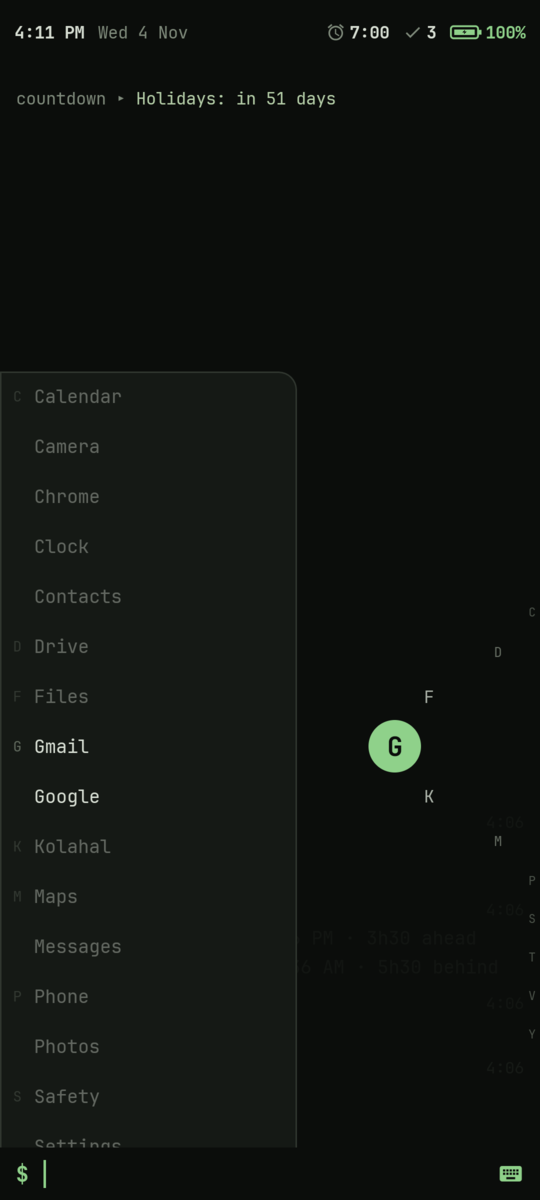
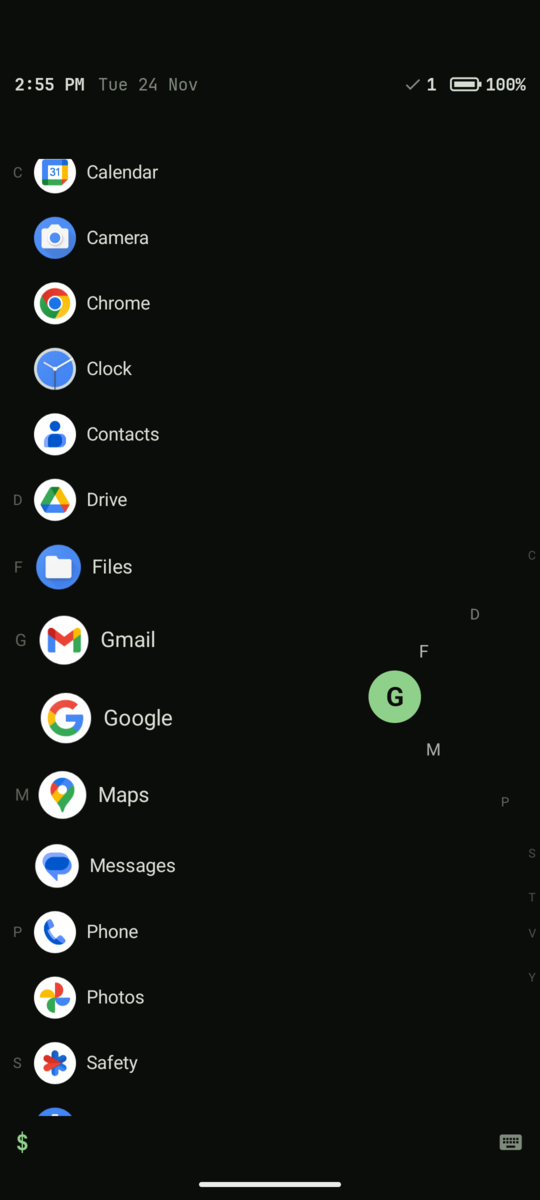
Guide: the app selector as it is today
The three pictures were from the time the list was a panel over a dimmed home. They are retaken with today's build: the list takes the log's place, and the header and the prompt stay. Basics, Parts of the app and the settings reference say what the code does: the log fades out, nothing dims, the rows at the thumb are magnified, and the edge shows letters unless they are turned off. The marks on the Parts page's pictures are placed again.

selector.handle's description says that the handle shows only while the letters along the edge are off.

diff --git a/app/src/main/java/com/mtwabpin/kolahal/data/Keys.kt b/app/src/main/java/com/mtwabpin/kolahal/data/Keys.kt
@@ -359,7 +359,7 @@ object Keys {
     val SELECTOR_HANDLE = ConfigKey.Bool(
         "selector.handle",
         true,
-        "Show the slim A–Z handle on the edge.\nOff hides it, and the selector keeps working"
+        "Show the slim A–Z handle on the edge.\nIt shows only while the letters along the edge are off.\nOff hides it, and the selector keeps working"
     )
     val SELECTOR_LETTERS = ConfigKey.Bool(
         "selector.letters",

diff --git a/site/src/content/docs/reference/config.md b/site/src/content/docs/reference/config.md
@@ -156,14 +156,14 @@ three settings of the log differ here:
 | `suggestions.auto` | bool | `on` | show suggestions only while you type (keyboard open or text in the prompt) |
 | `suggestions.style` | choice: `list` `chips` | `list` | how suggestions look while you type. `list`: a list above the prompt, with the best match at the bottom, nearest your thumb, and command descriptions. `chips`: a strip of chips |
 | `suggestions.rows` | number 1–2 | `2` | rows of suggestion chips while you type (with `suggestions.style chips`) |
-| `selector.rail` | bool | `off` | show the app selector on an edge of the log while the keyboard is closed. Slide along it to a letter, then onto the list to pick an app. Lift your finger on an app to open it |
+| `selector.rail` | bool | `off` | show the app selector on an edge of the log while the keyboard is closed. Slide along it to a letter, then onto the list to pick an app. Lift your finger on an app to open it. While its list is open, the log fades out behind it |
 | `selector.browse` | choice: `letters` `apps` | `apps` | what sliding along the edge does. `letters`: moves one letter at a time. The letter's apps appear next to your thumb, with the letter large beside it. `apps`: moves through the whole list, one app at a time when you slide slowly |
 | `selector.filter` | bool | `off` | with `letters`, the list shows only the letter's apps, not the whole list scrolled to that letter |
 | `selector.side` | choice: `right` `left` | `right` | the edge you slide on. The list of apps opens on the other side |
 | `selector.position` | choice: `bottom` `middle` `top` | `bottom` | where the slide area is on the edge. Keep it away from the back gesture |
-| `selector.handle` | bool | `on` | show the slim A–Z handle on the edge. When off, the handle is hidden but the selector still works |
+| `selector.handle` | bool | `on` | show the slim A–Z handle on the edge when `selector.letters` is off. When off, the handle is hidden but the selector still works |
 | `selector.letters` | bool | `on` | show the letters along the edge when you aren't sliding, so you can see where to touch. Only letters that have apps are shown |
-| `selector.height` | number 200–900 | `400` | length (dp) of the part of the edge you slide on. Shorter means your thumb moves less. The list uses the whole height. With gesture navigation, a touch starts the selector only in the middle 200 dp, where the handle is |
+| `selector.height` | number 200–900 | `400` | length (dp) of the part of the edge you slide on. Shorter means your thumb moves less. The list uses the whole height. With gesture navigation, a touch starts the selector only in the middle 200 dp, where the handle is or the letters are brighter |
 | `selector.actions` | choice: `far-side` `off` | `off` | app actions while picking. `far-side`: the actions open when you lift your finger on the far side of the list. `off`: you get them only by long-pressing in the open list. Not in Settings ([what it does](/getting-started/basics/#app-actions-while-picking)) |
 | `selector.row-height` | number 32–64 | `50` | height (dp) of each app in the app selector's list. Taller rows space the names out. It grows with a large text size |
 | `selector.icons` | bool | `on` | show each app's icon in the app selector's list |
